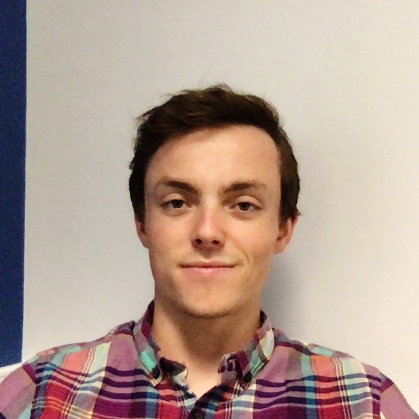
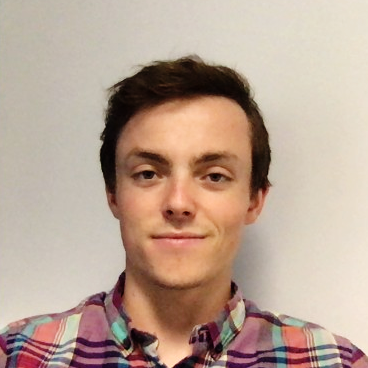
Home page updated

diff --git a/style.css b/style.css
@@ -13,7 +13,7 @@ html, body {
     font-family: 'Roboto', sans-serif;
     margin-bottom: 2px;
 }
-
+/*
 #wrapper {
     background-color: lightblue;
 
@@ -23,21 +23,6 @@ html, body {
     height: 80%;
 
 }
-
-#header{
-    background-color: lightcyan;
-    position: absolute;
-    left: 0px;
-    top: 0px;
-    width: 100%;
-
-}
-
-
-
-
-
-
 .left, .right {
     background-color: lightblue;
 
@@ -49,17 +34,36 @@ html, body {
     justify-content: center;
 }
 
-.left {
-    align-items: center;
-    justify-content: center;
+*/
+.intro {
+    text-align: center;
+}
+#header{
+    background-color: lightcyan;
+    position: absolute;
+    left: 0px;
+    top: 0px;
+    width: 100%;
+}
+.background{
+    position: absolute;
+    left: 0px;
+    top: 60px;
+    bottom: 300px;
+    z-index: 0;
 }
 
-.menu-bar {
+
+.left {
     align-items: center;
+    position: absolute;
+    z-index: 4;
 }
+
 
 .profile-picture {
     border-radius: 50%;
+    border: 2px solid white;
 }
 
 .social-links {

diff --git a/index.html b/index.html
@@ -16,8 +16,9 @@
       </ul>
     </div>
 
+
     <div id="wrapper">
-      <div class="left">
+      <div class="intro">
         <img class="profile-picture" src="img/LinkedIn_profile.png" width="200"/>
         <h1 class="name">Matt Lawhon</h1>
         <h4 class="subtitle">Mathematician. Computer and Data Scientist.</h4>
@@ -25,8 +26,7 @@
 
       <div class="right">
         <p class="bio">
-          Computer Science student, web developer, blah blah blah.
-          Thanks for visiting my website.
+          Columbia Student | IBM Intern
         </p>
         <ul class="social-links">
           <li><a href="https://github.com/mattlawhon">Github</a></li>
